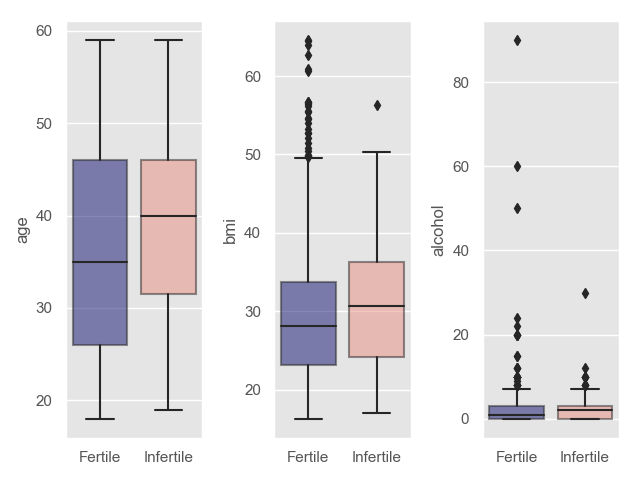
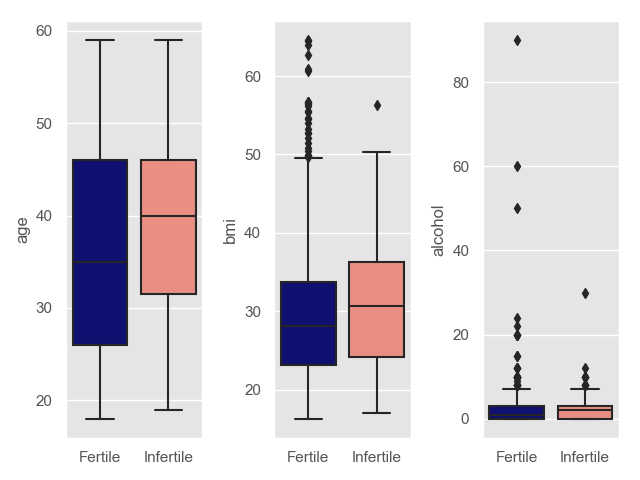
fixed colors on boxplot

Changed region(s): [[0.0938, 0.3125, 0.3125, 0.7188], [0.4375, 0.5312, 0.6562, 0.7812], [0.75, 0.8438, 0.9688, 0.875]]

diff --git a/src/mk_figs.py b/src/mk_figs.py
@@ -14,11 +14,12 @@ def pair_sns(df):
 
 def box_cat_plot(df):
     df_nodum_cont = df[['fert_stat','age', 'bmi', 'alcohol']]
-
+    df_nodum_cont['Fertility Status'] = np.where(df_nodum_cont['fert_stat']=='no', 'Fertile', 'Infertile')
+    df_nodum_cont.drop('fert_stat', inplace = True, axis = 1)
     fig, axs = plt.subplots(ncols=3)
-    sns.boxplot(x = "Fertility Status", y = "age", data = df_nodum_cont, palette={'Fertile':"navy", 'Infertile':"salmon"},boxprops={'alpha':.5}, ax = axs[0]).xaxis.label.set_visible(False)
-    sns.boxplot(x = "Fertility Status", y = "bmi", data = df_nodum_cont,palette={'Fertile':"navy", 'Infertile':"salmon"},boxprops={'alpha':.5}, ax = axs[1]).xaxis.label.set_visible(False)
-    sns.boxplot(x = "Fertility Status", y = "alcohol", data = df_nodum_cont,palette={'Fertile':"navy", 'Infertile':"salmon"},boxprops={'alpha':.5}, ax = axs[2]).xaxis.label.set_visible(False)
+    sns.boxplot(x = "Fertility Status", y = "age", data = df_nodum_cont, palette={'Fertile':"navy", 'Infertile':"salmon"}, ax = axs[0]).xaxis.label.set_visible(False)
+    sns.boxplot(x = "Fertility Status", y = "bmi", data = df_nodum_cont,palette={'Fertile':"navy", 'Infertile':"salmon"}, ax = axs[1]).xaxis.label.set_visible(False)
+    sns.boxplot(x = "Fertility Status", y = "alcohol", data = df_nodum_cont,palette={'Fertile':"navy", 'Infertile':"salmon"}, ax = axs[2]).xaxis.label.set_visible(False)
     plt.xlabel("Fertility Status")
     plt.tight_layout()
 
